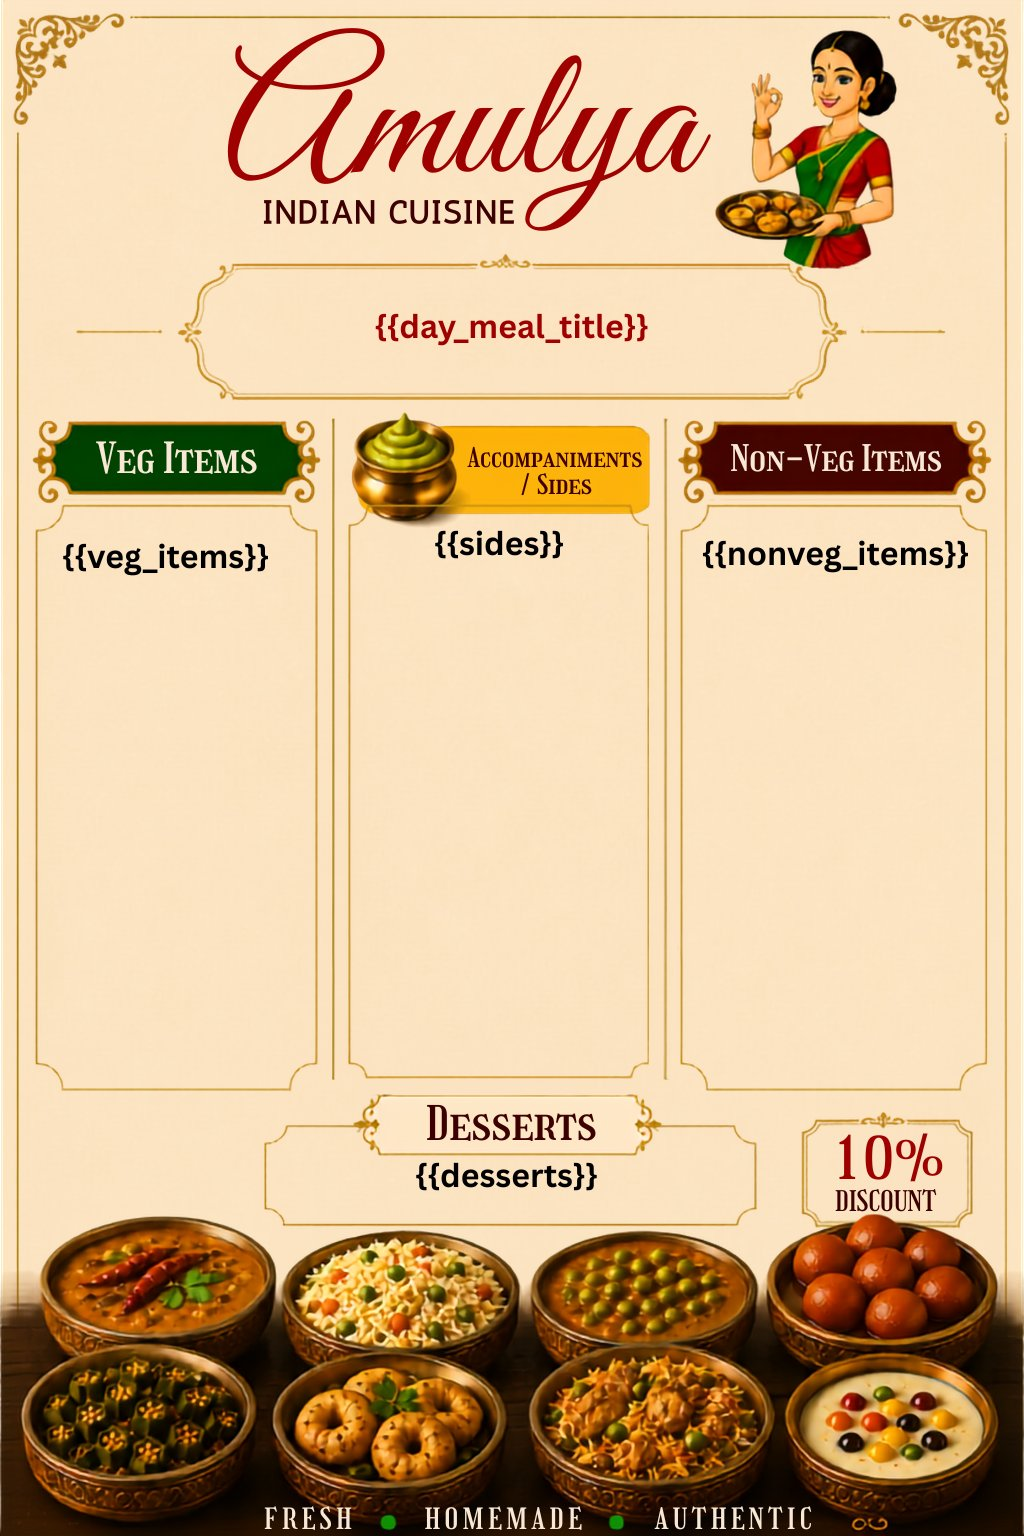
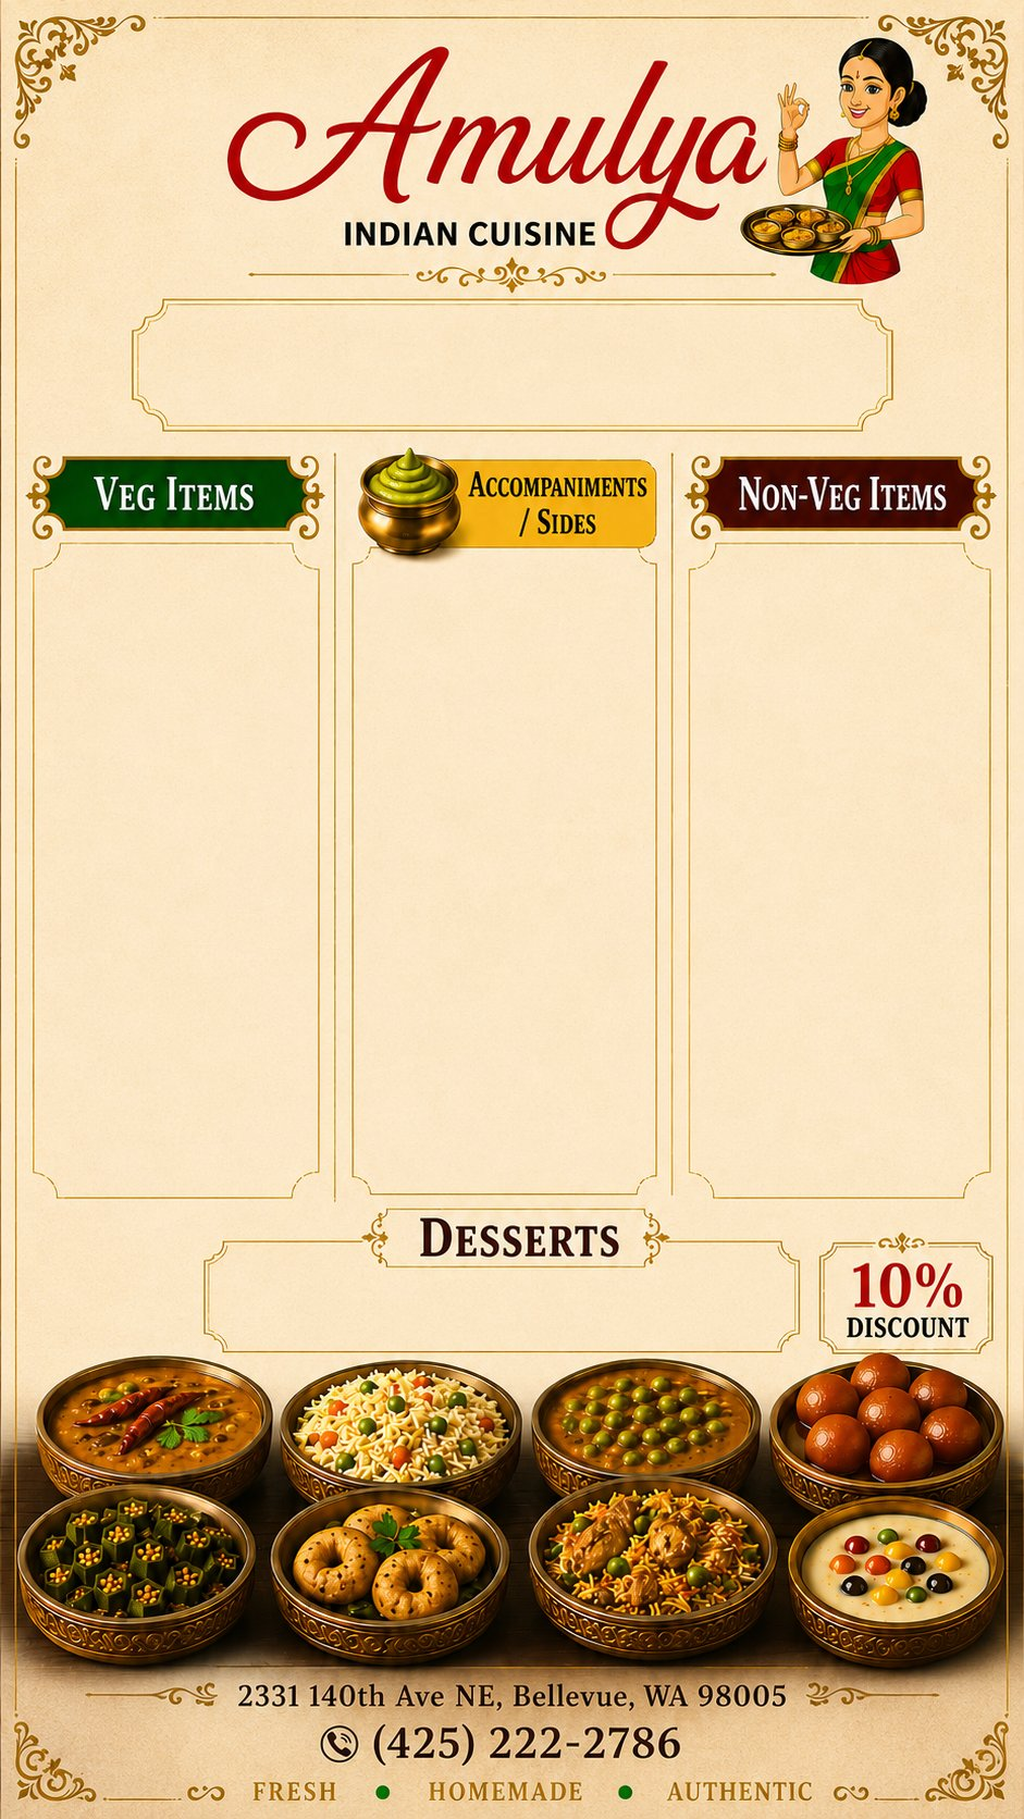
New ChatGPT template 1024x1819 - address+phone in footer
- Template: ChatGPT_Image high quality 941x1672 → scaled to 1024x1819
- Address: 2331 140th Ave NE, Bellevue, WA 98005 (already in template)
- Phone: (425) 222-2786 (already in template)
- Bigger content boxes: VEG/NONVEG h=800, SIDES h=600
- Larger fonts: 20-38px (was 18-34px)
- All positions pixel-verified with debug overlay
- Canvas 2D drawing — perfect quality PNG for WhatsApp

diff --git a/lib/posterExport.ts b/lib/posterExport.ts
@@ -2,23 +2,25 @@ import jsPDF from 'jspdf';
 import { PosterConfig } from '@/types';
 
 /*
- * Direct Canvas 2D drawing — 100% reliable PNG export
- * Template: Canva design 1024x1536px
+ * Direct Canvas 2D drawing on ChatGPT template (1024×1819px)
  *
- * Verified box positions:
- *   TITLE:    x=120, y=225, w=770, h=110
- *   VEG:      x=38,  y=496, w=277, h=590
- *   SIDES:    x=351, y=496, w=296, h=440
- *   DESSERTS: x=351, y=960, w=296, h=125
- *   NONVEG:   x=683, y=496, w=302, h=590
+ * Pixel-verified box positions:
+ *   TITLE:    x=120,  y=220,  w=770, h=160
+ *   VEG:      x=35,   y=555,  w=283, h=800
+ *   SIDES:    x=354,  y=555,  w=301, h=600
+ *   DESSERTS: x=354,  y=1155, w=301, h=200
+ *   NONVEG:   x=690,  y=555,  w=299, h=800
  */
 
+const W = 1024;
+const H = 1819;
+
 const BOXES = {
-  title:    { x: 120, y: 225, w: 770, h: 110 },
-  veg:      { x: 38,  y: 496, w: 277, h: 590 },
-  sides:    { x: 351, y: 496, w: 296, h: 440 },
-  desserts: { x: 351, y: 960, w: 296, h: 125 },
-  nonveg:   { x: 683, y: 496, w: 302, h: 590 },
+  title:    { x: 120, y: 220,  w: 770, h: 160 },
+  veg:      { x: 35,  y: 555,  w: 283, h: 800 },
+  sides:    { x: 354, y: 555,  w: 301, h: 600 },
+  desserts: { x: 354, y: 1155, w: 301, h: 200 },
+  nonveg:   { x: 690, y: 555,  w: 299, h: 800 },
 };
 
 function loadImage(src: string): Promise<HTMLImageElement> {
@@ -26,8 +28,8 @@ function loadImage(src: string): Promise<HTMLImageElement> {
     const img = new Image();
     img.crossOrigin = 'anonymous';
     img.onload  = () => resolve(img);
-    img.onerror = () => reject(new Error(`Failed to load: ${src}`));
-    img.src = src;
+    img.onerror = () => reject(new Error(`Failed: ${src}`));
+    img.src = src + '?v=' + Date.now(); // cache bust
   });
 }
 
@@ -37,35 +39,30 @@ function drawItems(
   box: { x: number; y: number; w: number; h: number },
   dotColor: string,
   fontName: string,
-  minFont = 18,
-  maxFont = 32,
+  minFont = 20,
+  maxFont = 38,
 ) {
   if (items.length === 0) return;
-
-  const fontSize = Math.max(minFont, Math.min(maxFont, (box.h / items.length) / 1.5));
+  const fontSize = Math.max(minFont, Math.min(maxFont, (box.h / items.length) / 1.55));
   const lineH    = box.h / items.length;
-  const dotR     = Math.max(6, fontSize * 0.22);
+  const dotR     = Math.max(7, fontSize * 0.23);
   const textX    = box.x + dotR * 2 + 10;
-  const maxTextW = box.w - dotR * 2 - 14;
+  const maxTextW = box.w - dotR * 2 - 18;
 
   ctx.font         = `${fontSize}px "${fontName}", "Palatino Linotype", Georgia, serif`;
   ctx.textBaseline = 'middle';
 
   items.forEach((item, i) => {
     const cy = box.y + i * lineH + lineH / 2;
-
-    // Bullet
+    // Dot
     ctx.beginPath();
     ctx.arc(box.x + dotR + 2, cy, dotR, 0, Math.PI * 2);
     ctx.fillStyle = dotColor;
     ctx.fill();
-
-    // Text — truncate if needed
+    // Text
     ctx.fillStyle = '#1A0800';
     let text = item.name;
-    while (ctx.measureText(text).width > maxTextW && text.length > 4) {
-      text = text.slice(0, -1);
-    }
+    while (ctx.measureText(text).width > maxTextW && text.length > 4) text = text.slice(0, -1);
     if (text !== item.name) text = text.slice(0, -2) + '…';
     ctx.fillText(text, textX, cy);
   });
@@ -78,70 +75,57 @@ export async function generatePosterCanvas(
   const { day, mealType, vegItems, nonVegItems, desserts, accompaniments } = config;
 
   const templateImg = await loadImage('/poster-template.png');
+  const canvas = document.createElement('canvas');
+  canvas.width  = W;
+  canvas.height = H;
+  const ctx = canvas.getContext('2d')!;
 
-  const canvas  = document.createElement('canvas');
-  canvas.width  = 1024;
-  canvas.height = 1536;
-  const ctx     = canvas.getContext('2d')!;
+  ctx.drawImage(templateImg, 0, 0, W, H);
 
-  // Draw background template
-  ctx.drawImage(templateImg, 0, 0, 1024, 1536);
-
-  // ── TITLE ──
+  // TITLE
   const titleText = `${day} ${mealType} Buffet`;
-  const titleSize = titleText.length > 22 ? 52 : titleText.length > 18 ? 60 : 68;
+  const titleSize = titleText.length > 22 ? 56 : titleText.length > 18 ? 64 : 72;
   ctx.font         = `900 ${titleSize}px "${fontName}", Georgia, serif`;
   ctx.fillStyle    = '#5C0A00';
   ctx.textAlign    = 'center';
   ctx.textBaseline = 'middle';
-  ctx.fillText(
-    titleText,
-    BOXES.title.x + BOXES.title.w / 2,
-    BOXES.title.y + BOXES.title.h / 2,
-  );
+  ctx.fillText(titleText, BOXES.title.x + BOXES.title.w / 2, BOXES.title.y + BOXES.title.h / 2);
   ctx.textAlign = 'left';
 
-  // ── VEG ITEMS ──
-  drawItems(ctx, vegItems, BOXES.veg, '#2E7D32', fontName, 18, 32);
+  // VEG
+  drawItems(ctx, vegItems, BOXES.veg, '#2E7D32', fontName, 20, 38);
 
-  // ── SIDES ──
-  // If desserts exist, shrink sides to make room
+  // SIDES — shrink if desserts exist
   const sidesBox = { ...BOXES.sides };
-  if (desserts.length > 0) {
-    sidesBox.h = BOXES.desserts.y - BOXES.sides.y - 10;
-  }
-  drawItems(ctx, accompaniments, sidesBox, '#8B6914', fontName, 16, 26);
+  if (desserts.length > 0) sidesBox.h = BOXES.desserts.y - BOXES.sides.y - 10;
+  drawItems(ctx, accompaniments, sidesBox, '#8B6914', fontName, 18, 30);
 
-  // ── DESSERTS ──
+  // DESSERTS
   if (desserts.length > 0) {
-    drawItems(ctx, desserts, BOXES.desserts, '#8B4513', fontName, 16, 26);
+    drawItems(ctx, desserts, BOXES.desserts, '#8B4513', fontName, 18, 30);
   }
 
-  // ── NON-VEG ITEMS ──
-  drawItems(ctx, nonVegItems, BOXES.nonveg, '#B71C1C', fontName, 18, 32);
+  // NON-VEG
+  drawItems(ctx, nonVegItems, BOXES.nonveg, '#B71C1C', fontName, 20, 38);
 
   return canvas;
 }
 
 export async function downloadPNG(
-  _elementId: string,
-  filename: string,
-  config?: PosterConfig,
-  fontName?: string,
+  _id: string, filename: string,
+  config?: PosterConfig, fontName?: string,
 ): Promise<void> {
   if (!config) throw new Error('Config required');
   const canvas = await generatePosterCanvas(config, fontName);
-  const link   = document.createElement('a');
+  const link = document.createElement('a');
   link.download = `${filename}.png`;
   link.href     = canvas.toDataURL('image/png', 1.0);
   link.click();
 }
 
 export async function downloadPDF(
-  _elementId: string,
-  filename: string,
-  config?: PosterConfig,
-  fontName?: string,
+  _id: string, filename: string,
+  config?: PosterConfig, fontName?: string,
 ): Promise<void> {
   if (!config) throw new Error('Config required');
   const canvas  = await generatePosterCanvas(config, fontName);

diff --git a/components/poster/PosterCanvas.tsx b/components/poster/PosterCanvas.tsx
@@ -13,26 +13,18 @@ export default function PosterCanvas({
 }: PosterCanvasProps) {
   const { day, mealType, vegItems, nonVegItems, desserts, accompaniments } = config;
 
-  /*
-   * New Canva template positions (1024×1536px):
-   *   TITLE:    x=120, y=225, w=770, h=110
-   *   VEG:      x=38,  y=496, w=277, h=590
-   *   SIDES:    x=351, y=496, w=296, h=440
-   *   DESSERTS: x=351, y=960, w=296, h=125
-   *   NONVEG:   x=683, y=496, w=302, h=590
-   */
+  const sidesH   = desserts.length > 0 ? (1155 - 555 - 10) : 600;
 
-  const calcSizes = (count: number, boxH: number, min = 16, max = 32) => {
-    if (count === 0) return { fontSize: max, lineH: max * 1.5 };
-    const lineH = Math.min(max * 1.5, boxH / count);
-    return { fontSize: Math.max(min, Math.min(max, lineH / 1.5)), lineH };
+  const calcSizes = (count: number, boxH: number, min = 20, max = 38) => {
+    if (count === 0) return { fontSize: max, lineH: max * 1.55 };
+    const lineH = Math.min(max * 1.55, boxH / count);
+    return { fontSize: Math.max(min, Math.min(max, lineH / 1.55)), lineH };
   };
 
-  const sidesH   = desserts.length > 0 ? (960 - 496 - 10) : 440;
-  const vegS     = calcSizes(vegItems.length,       590);
-  const nonvegS  = calcSizes(nonVegItems.length,    590);
-  const sidesS   = calcSizes(accompaniments.length, sidesH, 14, 26);
-  const dessertS = calcSizes(desserts.length,       125, 14, 24);
+  const vegS     = calcSizes(vegItems.length,       800);
+  const nonvegS  = calcSizes(nonVegItems.length,    800);
+  const sidesS   = calcSizes(accompaniments.length, sidesH, 18, 30);
+  const dessertS = calcSizes(desserts.length,       200, 18, 30);
 
   const Item = ({ name, dot, sizes, maxW }: {
     name: string; dot: string;
@@ -45,17 +37,20 @@ export default function PosterCanvas({
       fontFamily, fontWeight: 400,
     }}>
       <span style={{
-        width: Math.max(8, sizes.fontSize * 0.44),
-        height: Math.max(8, sizes.fontSize * 0.44),
+        width: Math.max(9, sizes.fontSize * 0.46),
+        height: Math.max(9, sizes.fontSize * 0.46),
         borderRadius: '50%', background: dot,
         flexShrink: 0, display: 'inline-block',
-        marginRight: Math.max(6, sizes.fontSize * 0.3),
+        marginRight: Math.max(8, sizes.fontSize * 0.32),
       }}/>
       <span style={{ overflow:'hidden', textOverflow:'ellipsis', whiteSpace:'nowrap', maxWidth: maxW }}>
         {name}
       </span>
     </div>
   );
+
+  const titleText = `${day} ${mealType} Buffet`;
+  const titleSize = titleText.length > 22 ? 56 : titleText.length > 18 ? 64 : 72;
 
   return (
     <div style={{ position: 'relative', width: 1024, overflow: 'hidden', fontFamily }}>
@@ -64,38 +59,34 @@ export default function PosterCanvas({
 
       {/* TITLE */}
       <div style={{
-        position: 'absolute', left: 120, top: 225, width: 770, height: 110,
-        display: 'flex', alignItems: 'center', justifyContent: 'center',
-        zIndex: 10, textAlign: 'center',
+        position: 'absolute', left: 120, top: 220, width: 770, height: 160,
+        display: 'flex', alignItems: 'center', justifyContent: 'center', zIndex: 10,
       }}>
-        <div style={{
-          fontSize: `${day.length + mealType.length > 18 ? 52 : 66}px`,
-          fontWeight: 900, color: '#5C0A00', fontFamily, lineHeight: 1.05,
-        }}>
-          {day} {mealType} Buffet
+        <div style={{ fontSize: titleSize, fontWeight: 900, color: '#5C0A00', fontFamily, lineHeight: 1.05, textAlign: 'center' }}>
+          {titleText}
         </div>
       </div>
 
       {/* VEG */}
-      <div style={{ position:'absolute', left:38, top:496, width:277, height:590, overflow:'hidden', zIndex:10 }}>
-        {vegItems.map(i => <Item key={i.id} name={i.name} dot="#2E7D32" sizes={vegS} maxW={240}/>)}
+      <div style={{ position:'absolute', left:35, top:555, width:283, height:800, overflow:'hidden', zIndex:10 }}>
+        {vegItems.map(i => <Item key={i.id} name={i.name} dot="#2E7D32" sizes={vegS} maxW={248}/>)}
       </div>
 
       {/* SIDES */}
-      <div style={{ position:'absolute', left:351, top:496, width:296, height:sidesH, overflow:'hidden', zIndex:10 }}>
-        {accompaniments.map(i => <Item key={i.id} name={i.name} dot="#8B6914" sizes={sidesS} maxW={260}/>)}
+      <div style={{ position:'absolute', left:354, top:555, width:301, height:sidesH, overflow:'hidden', zIndex:10 }}>
+        {accompaniments.map(i => <Item key={i.id} name={i.name} dot="#8B6914" sizes={sidesS} maxW={266}/>)}
       </div>
 
       {/* DESSERTS */}
       {desserts.length > 0 && (
-        <div style={{ position:'absolute', left:351, top:960, width:296, height:125, overflow:'hidden', zIndex:10 }}>
-          {desserts.map(i => <Item key={i.id} name={i.name} dot="#8B4513" sizes={dessertS} maxW={260}/>)}
+        <div style={{ position:'absolute', left:354, top:1155, width:301, height:200, overflow:'hidden', zIndex:10 }}>
+          {desserts.map(i => <Item key={i.id} name={i.name} dot="#8B4513" sizes={dessertS} maxW={266}/>)}
         </div>
       )}
 
       {/* NON-VEG */}
-      <div style={{ position:'absolute', left:683, top:496, width:302, height:590, overflow:'hidden', zIndex:10 }}>
-        {nonVegItems.map(i => <Item key={i.id} name={i.name} dot="#B71C1C" sizes={nonvegS} maxW={265}/>)}
+      <div style={{ position:'absolute', left:690, top:555, width:299, height:800, overflow:'hidden', zIndex:10 }}>
+        {nonVegItems.map(i => <Item key={i.id} name={i.name} dot="#B71C1C" sizes={nonvegS} maxW={264}/>)}
       </div>
     </div>
   );

diff --git a/components/workflow/StepPoster.tsx b/components/workflow/StepPoster.tsx
@@ -41,8 +41,8 @@ export default function StepPoster({ config, onBack }: StepPosterProps) {
     }
   }
 
-  const PREVIEW_SCALE = 0.29;
-  const PREVIEW_HEIGHT = Math.round(1536 * PREVIEW_SCALE);
+  const PREVIEW_SCALE = 0.25;
+  const PREVIEW_HEIGHT = Math.round(1819 * PREVIEW_SCALE);
 
   return (
     <div className="space-y-4">